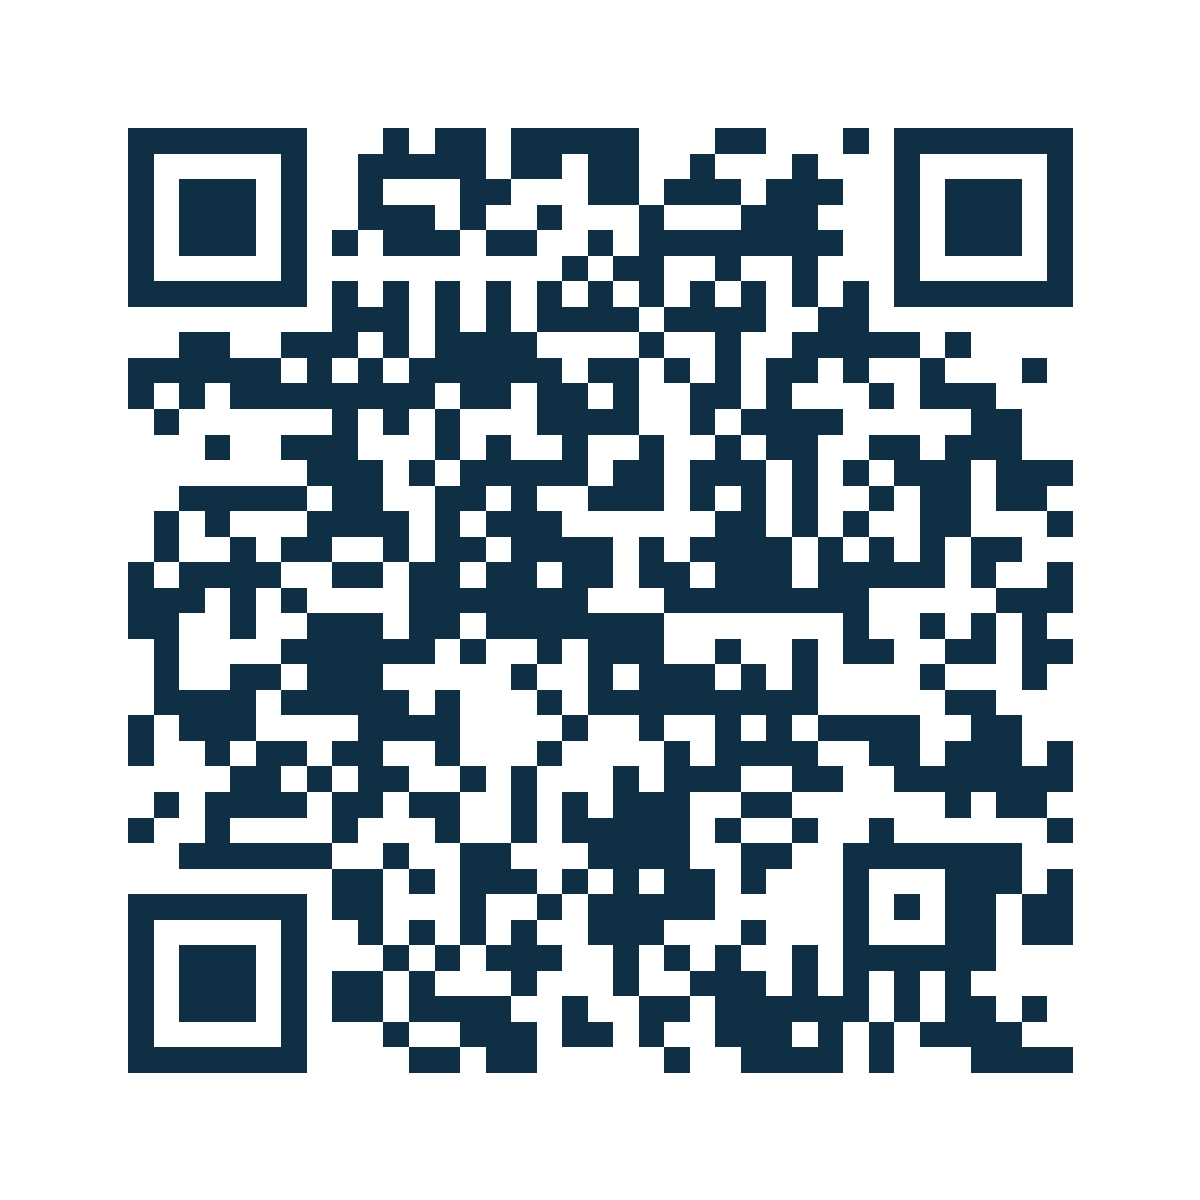
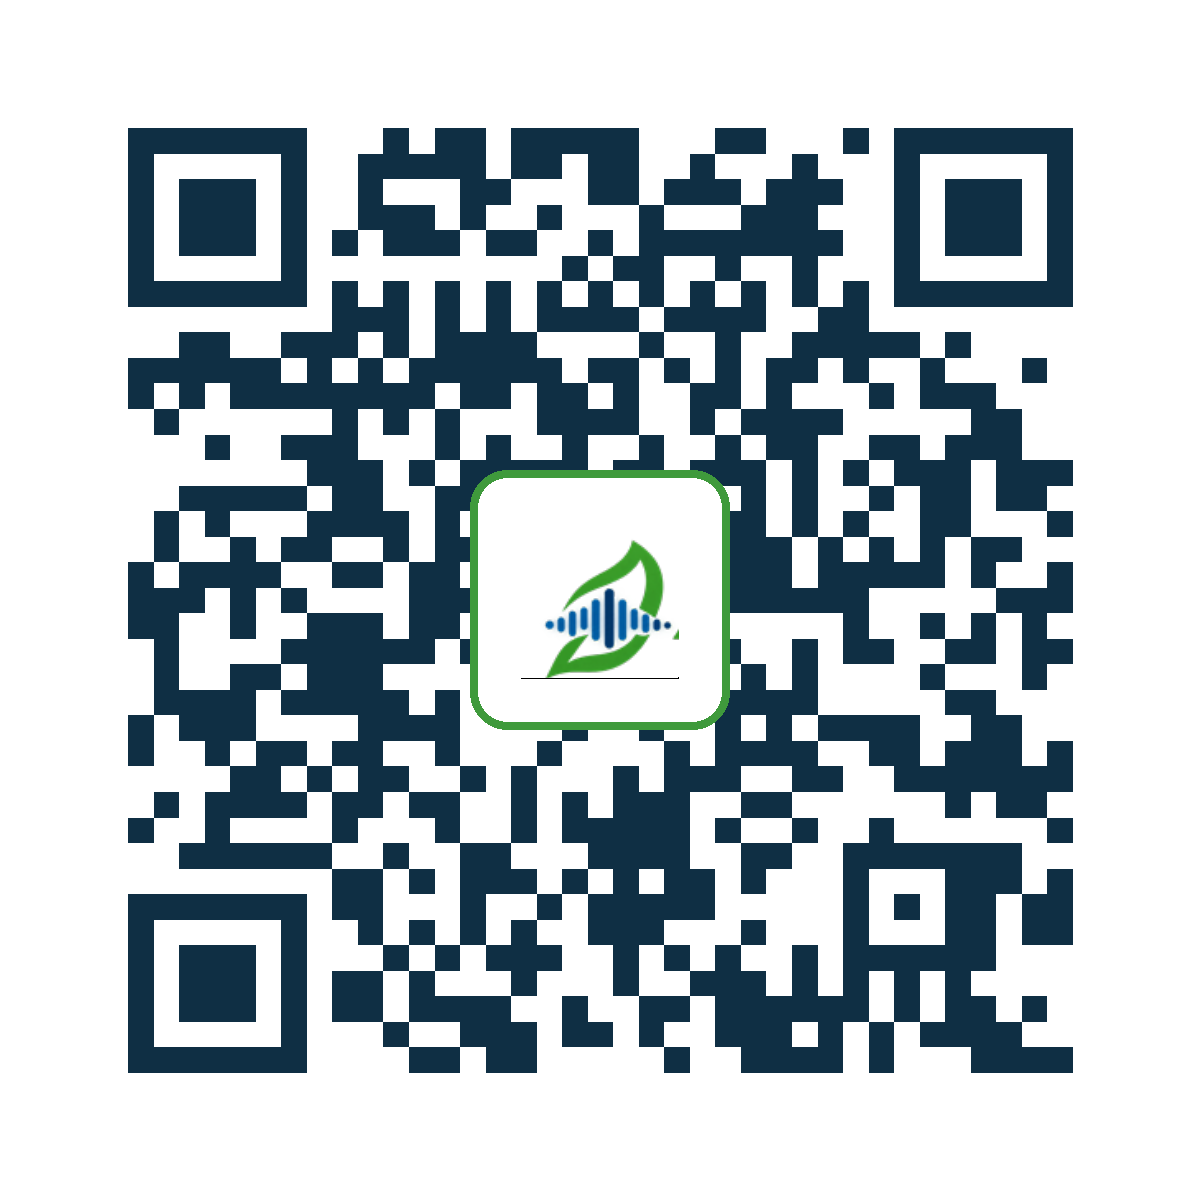
feat: brand AgroPulse QR with emblem and message

Changed region(s): [[0.37, 0.37, 0.6167, 0.6167]]

diff --git a/index.html b/index.html
@@ -53,6 +53,7 @@
     .qr-preview { display: block; width: 180px; height: 180px; border-radius: 8px; background: #fff; image-rendering: pixelated; }
     .share h2 { margin: 0 0 7px; font-size: 21px; }
     .share p { margin: 0 0 14px; color: var(--muted); font-size: 14px; }
+    .share .qr-message { color: var(--green); font-weight: 800; }
     .download { display: flex; flex-wrap: wrap; gap: 10px; }
     .button { display: inline-flex; min-height: 46px; align-items: center; justify-content: center; padding: 10px 15px; border: 1px solid var(--green); border-radius: 10px; color: #fff; background: var(--green); font-size: 13px; font-weight: 800; text-decoration: none; }
     .button.secondary { color: var(--navy); background: #fff; }
@@ -118,17 +119,18 @@
     </nav>
 
     <section class="share" aria-labelledby="share-title">
-      <img class="qr-preview" src="./public/assets/agropulse-access-qr.png" width="180" height="180" alt="QR code d’accès à AgroPulse">
+      <img class="qr-preview" src="./public/assets/agropulse-access-qr.png" width="180" height="180" alt="QR code AgroPulse avec son emblème au centre">
       <div>
         <h2 id="share-title" data-fr="Partagez le QR code" data-en="Share the QR code">Partagez le QR code</h2>
         <p data-fr="Téléchargez le PNG pour l’envoyer ou l’imprimer. Le SVG convient aussi à une impression grand format." data-en="Download the PNG to share or print. The SVG is also suitable for large-format printing.">Téléchargez le PNG pour l’envoyer ou l’imprimer. Le SVG convient aussi à une impression grand format.</p>
+        <p class="qr-message" data-fr="Scannez pour découvrir AgroPulse, nos initiatives et nos réseaux sociaux." data-en="Scan to discover AgroPulse, our initiatives and social media.">Scannez pour découvrir AgroPulse, nos initiatives et nos réseaux sociaux.</p>
         <div class="download">
           <a class="button" href="./public/assets/agropulse-access-qr.png" download="agropulse-qr-code.png" data-fr="Télécharger le QR (PNG)" data-en="Download QR (PNG)">Télécharger le QR (PNG)</a>
           <a class="button secondary" href="./public/assets/agropulse-access-qr.svg" download="agropulse-qr-code.svg" data-fr="Version SVG" data-en="SVG version">Version SVG</a>
         </div>
       </div>
     </section>
-    <footer class="foot">AgroPulse Global Solutions · <a href="https://agropulsegs.org/" data-fr="Retour au site" data-en="Back to website">Retour au site</a></footer>
+    <footer class="foot">AgroPulse Global Solutions · <a href="/" data-fr="Retour au site" data-en="Back to website">Retour au site</a></footer>
   </main>
   <script>
     const languageButton=document.getElementById('language');

diff --git a/public/acces.html b/public/acces.html
@@ -52,6 +52,7 @@
     .qr-preview { display: block; width: 180px; height: 180px; border-radius: 8px; background: #fff; image-rendering: pixelated; }
     .share h2 { margin: 0 0 7px; font-size: 21px; }
     .share p { margin: 0 0 14px; color: var(--muted); font-size: 14px; }
+    .share .qr-message { color: var(--green); font-weight: 800; }
     .download { display: flex; flex-wrap: wrap; gap: 10px; }
     .button { display: inline-flex; min-height: 46px; align-items: center; justify-content: center; padding: 10px 15px; border: 1px solid var(--green); border-radius: 10px; color: #fff; background: var(--green); font-size: 13px; font-weight: 800; text-decoration: none; }
     .button.secondary { color: var(--navy); background: #fff; }
@@ -117,10 +118,11 @@
     </nav>
 
     <section class="share" aria-labelledby="share-title">
-      <img class="qr-preview" src="/assets/agropulse-access-qr.png" width="180" height="180" alt="QR code d’accès à AgroPulse">
+      <img class="qr-preview" src="/assets/agropulse-access-qr.png" width="180" height="180" alt="QR code AgroPulse avec son emblème au centre">
       <div>
         <h2 id="share-title" data-fr="Partagez le QR code" data-en="Share the QR code">Partagez le QR code</h2>
         <p data-fr="Téléchargez le PNG pour l’envoyer ou l’imprimer. Le SVG convient aussi à une impression grand format." data-en="Download the PNG to share or print. The SVG is also suitable for large-format printing.">Téléchargez le PNG pour l’envoyer ou l’imprimer. Le SVG convient aussi à une impression grand format.</p>
+        <p class="qr-message" data-fr="Scannez pour découvrir AgroPulse, nos initiatives et nos réseaux sociaux." data-en="Scan to discover AgroPulse, our initiatives and social media.">Scannez pour découvrir AgroPulse, nos initiatives et nos réseaux sociaux.</p>
         <div class="download">
           <a class="button" href="/assets/agropulse-access-qr.png" download="agropulse-qr-code.png" data-fr="Télécharger le QR (PNG)" data-en="Download QR (PNG)">Télécharger le QR (PNG)</a>
           <a class="button secondary" href="/assets/agropulse-access-qr.svg" download="agropulse-qr-code.svg" data-fr="Version SVG" data-en="SVG version">Version SVG</a>

diff --git a/README.md b/README.md
@@ -17,7 +17,7 @@ Ouvrir `http://127.0.0.1:4173`. Lancer `npm run start` sur un hébergement Node.
 
 ## QR code et statistiques agrégées
 
-`public/acces.html` est la page de liens à ouvrir depuis le QR; les fichiers imprimables sont `public/assets/agropulse-access-qr.png` (PNG haute résolution) et `public/assets/agropulse-access-qr.svg` (vectoriel). Ils mènent à `https://abdoul675.github.io/AgroPulsegs.org/`. Pour les régénérer après une modification de destination : installer les dépendances de développement avec `npm install`, puis lancer `npm run qr:generate`. La page utilise le logo AgroPulse existant et des icônes de marques Simple Icons. Elle rassemble l’accueil, YIDA-Cashew, Facebook, X et TikTok. L’URL officielle YouTube doit être fournie avant que son lien soit activé.
+`public/acces.html` est la page de liens à ouvrir depuis le QR; les fichiers imprimables sont `public/assets/agropulse-access-qr.png` (PNG haute résolution) et `public/assets/agropulse-access-qr.svg` (vectoriel). Ils mènent à `https://abdoul675.github.io/AgroPulsegs.org/`. Pour les régénérer après une modification de destination : installer les dépendances de développement avec `npm install`, puis lancer `npm run qr:generate`. Le QR intègre l’emblème AgroPulse au centre; la page affiche le message « Scannez pour découvrir AgroPulse, nos initiatives et nos réseaux sociaux » et utilise les logos officiels des réseaux. Elle rassemble l’accueil, YIDA-Cashew, Facebook, X et TikTok. L’URL officielle YouTube doit être fournie avant que son lien soit activé.
 
 Le suivi de première partie ne stocke que des compteurs agrégés par jour, page et source, ainsi que le total des clics vers chaque réseau social depuis le site. Il ne crée ni identifiant visiteur, ni cookie, ni parcours individuel; il ne compte donc pas les personnes uniques. Le tableau de bord est `https://agropulsegs.org/statistiques.html` et requiert `AGROPULSE_ANALYTICS_ADMIN_TOKEN` (secret aléatoire d’au moins 32 caractères, côté serveur uniquement; génération possible avec `node -e "console.log(require('node:crypto').randomBytes(32).toString('hex'))"`). Les événements sont enregistrés dans `var/analytics.json` ou dans le chemin persistant indiqué par `AGROPULSE_ANALYTICS_FILE`; le dossier `var/` est ignoré par Git. Le stockage JSON convient à une seule instance Node; plusieurs instances nécessiteraient un stockage partagé transactionnel. Les liens vers AgroPulse publiés sur les réseaux peuvent utiliser `?utm_source=facebook`, `?utm_source=x`, `?utm_source=tiktok` ou `?utm_source=youtube` pour distinguer leur provenance. Les plateformes sociales ne transmettent pas les parcours de leurs utilisateurs à ce tableau.
 
